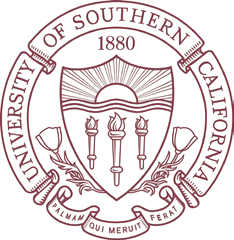
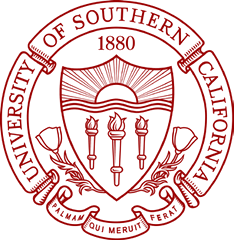
Recolour the light-mode USC seal to USC Cardinal (#990000)
The light-mode seal kept the source image's purplish tone (#862e4a),
while the dark-mode square already uses the official USC Cardinal.
make_affiliation_alpha.py gains an optional recolour per logo: the seal
is redrawn in #990000 on transparency, with each pixel's alpha taken
from its ink coverage, and saved losslessly so the colour stays exact.

Changed region(s): [[0.0, 0.0, 1.0, 1.0]]

diff --git a/scripts/make_affiliation_alpha.py b/scripts/make_affiliation_alpha.py
@@ -7,15 +7,18 @@ a white square. This is GIMP-style "colour to alpha" against white: each
 pixel keeps the least alpha that reproduces it over white, so anti-aliased
 edges stay smooth. Near-white JPEG noise is clipped to fully transparent.
 
+Logos given a colour are also recoloured: every pixel takes that colour, with
+its alpha set by how much ink it holds relative to a typical solid ink pixel.
+
 Usage: python3 scripts/make_affiliation_alpha.py   (from the repo root)
 """
 from PIL import Image
 
-LOGOS = {  # source -> (output, width, height)
-    "images/affiliations/usc.jpg": ("images/affiliations/usc.webp", 234, 240),
-    "images/affiliations/lab126.jpg": ("images/affiliations/lab126.webp", 240, 240),
-    "images/affiliations/mtk.jpg": ("images/affiliations/mtk.webp", 240, 152),
-    "images/affiliations/uta.png": ("images/affiliations/uta.webp", 240, 240),
+LOGOS = {  # source -> (output, width, height, recolour or None)
+    "images/affiliations/usc.jpg": ("images/affiliations/usc.webp", 234, 240, (0x99, 0x00, 0x00)),  # USC Cardinal
+    "images/affiliations/lab126.jpg": ("images/affiliations/lab126.webp", 240, 240, None),
+    "images/affiliations/mtk.jpg": ("images/affiliations/mtk.webp", 240, 152, None),
+    "images/affiliations/uta.png": ("images/affiliations/uta.webp", 240, 240, None),
 }
 NOISE = 0.06  # alpha below this (JPEG speckle on the white) becomes 0
 
@@ -41,8 +44,30 @@ def white_to_alpha(im):
     return out
 
 
-for src, (dst, w, h) in LOGOS.items():
+def recolour(im, colour):
+    """A one-colour logo on white, redrawn in `colour` on transparency."""
+    flat = Image.new("RGBA", im.size, (255, 255, 255, 255))
+    flat.alpha_composite(im.convert("RGBA"))
+    px = list(flat.convert("RGB").getdata())
+    depth = [(255 - min(p)) / 255 for p in px]
+    cut = 0.5 * max(depth)
+    strong = sorted(d for d in depth if d > cut)
+    ref = strong[int(0.7 * (len(strong) - 1))]  # a typical solid ink pixel
+    out = Image.new("RGBA", im.size)
+    alphas = []
+    for d in depth:
+        a = min(1.0, d / ref)
+        a = 0.0 if a < NOISE else (a - NOISE) / (1 - NOISE)
+        alphas.append(round(a * 255))
+    out.putdata([colour + (a,) if a else (0, 0, 0, 0) for a in alphas])
+    return out
+
+
+for src, (dst, w, h, colour) in LOGOS.items():
     logo = Image.open(src)
     logo = logo.resize((w, h), Image.LANCZOS)
-    white_to_alpha(logo).save(dst, "WEBP", quality=90, alpha_quality=100, method=6)
+    if colour:  # lossless, so the flat brand colour stays exact
+        recolour(logo, colour).save(dst, "WEBP", lossless=True, method=6)
+    else:
+        white_to_alpha(logo).save(dst, "WEBP", quality=90, alpha_quality=100, method=6)
     print("wrote", dst)
